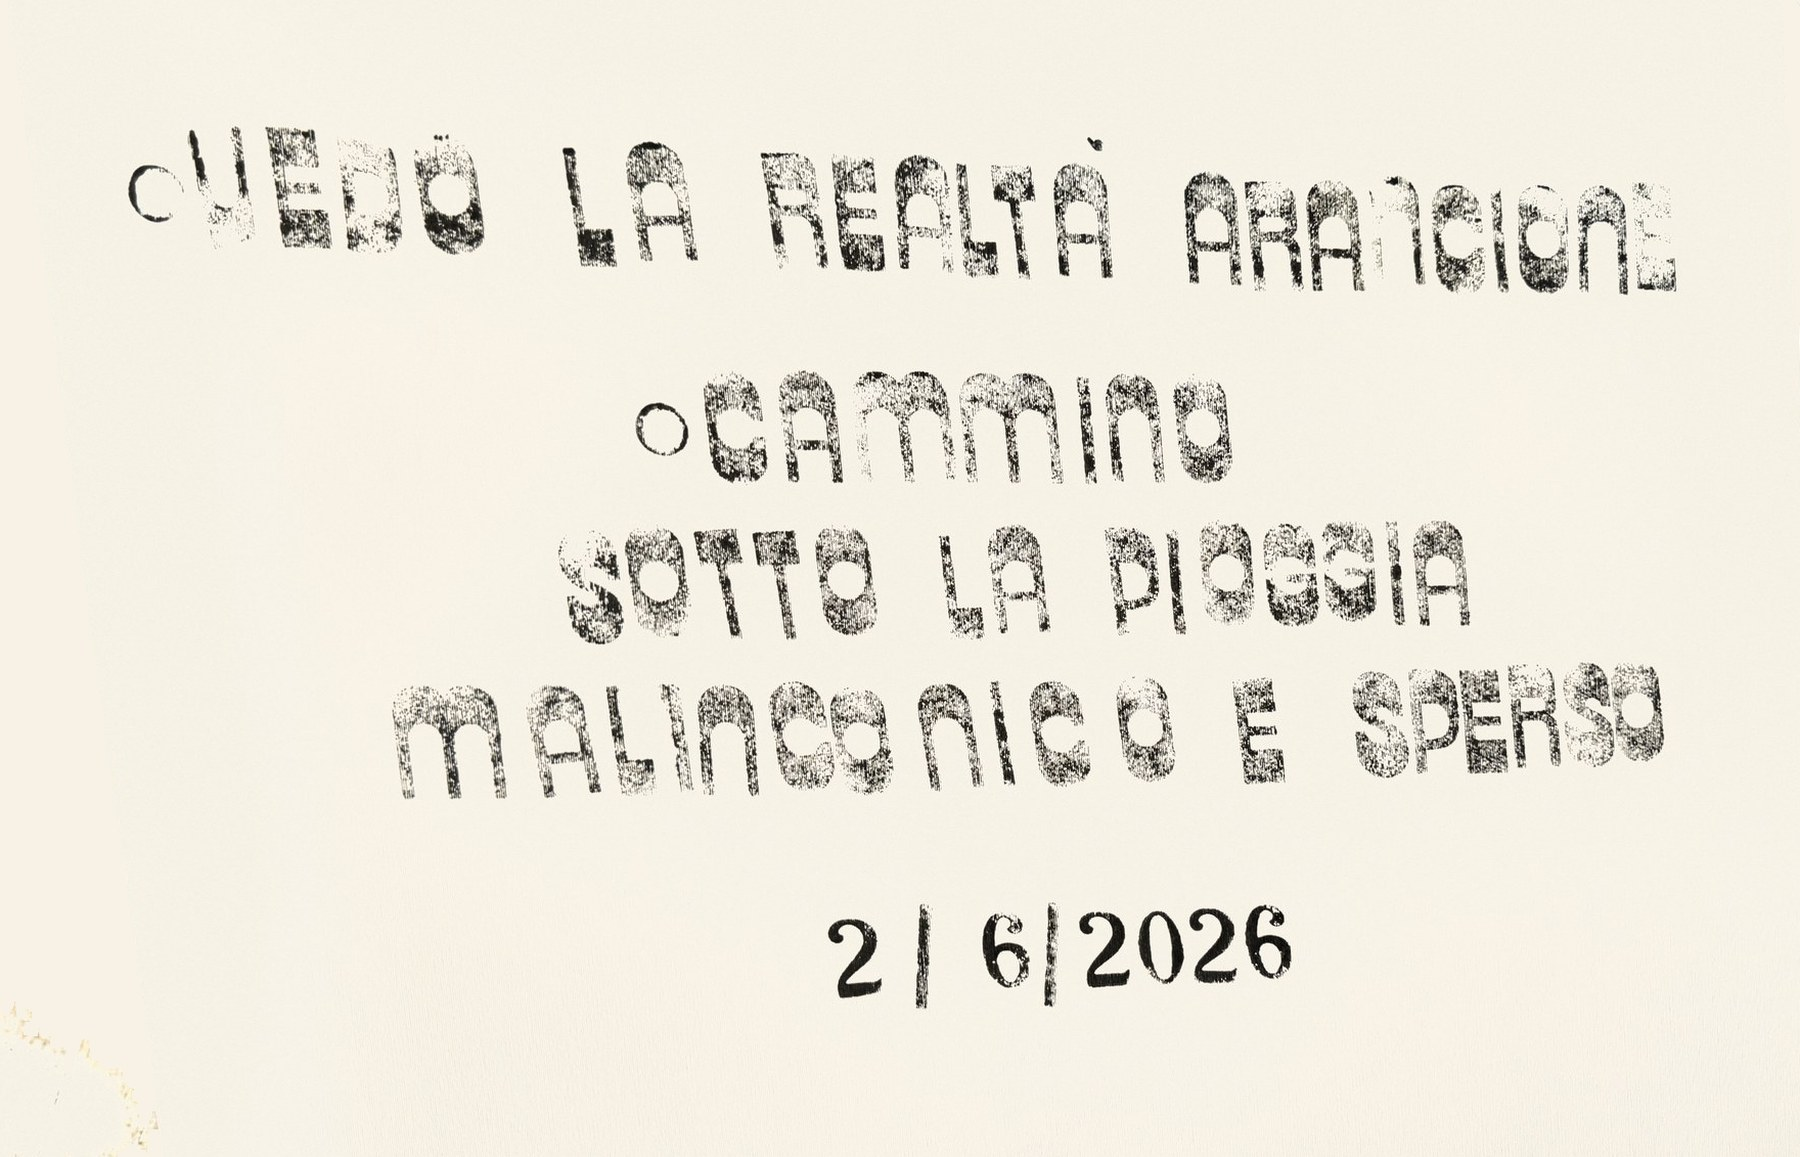
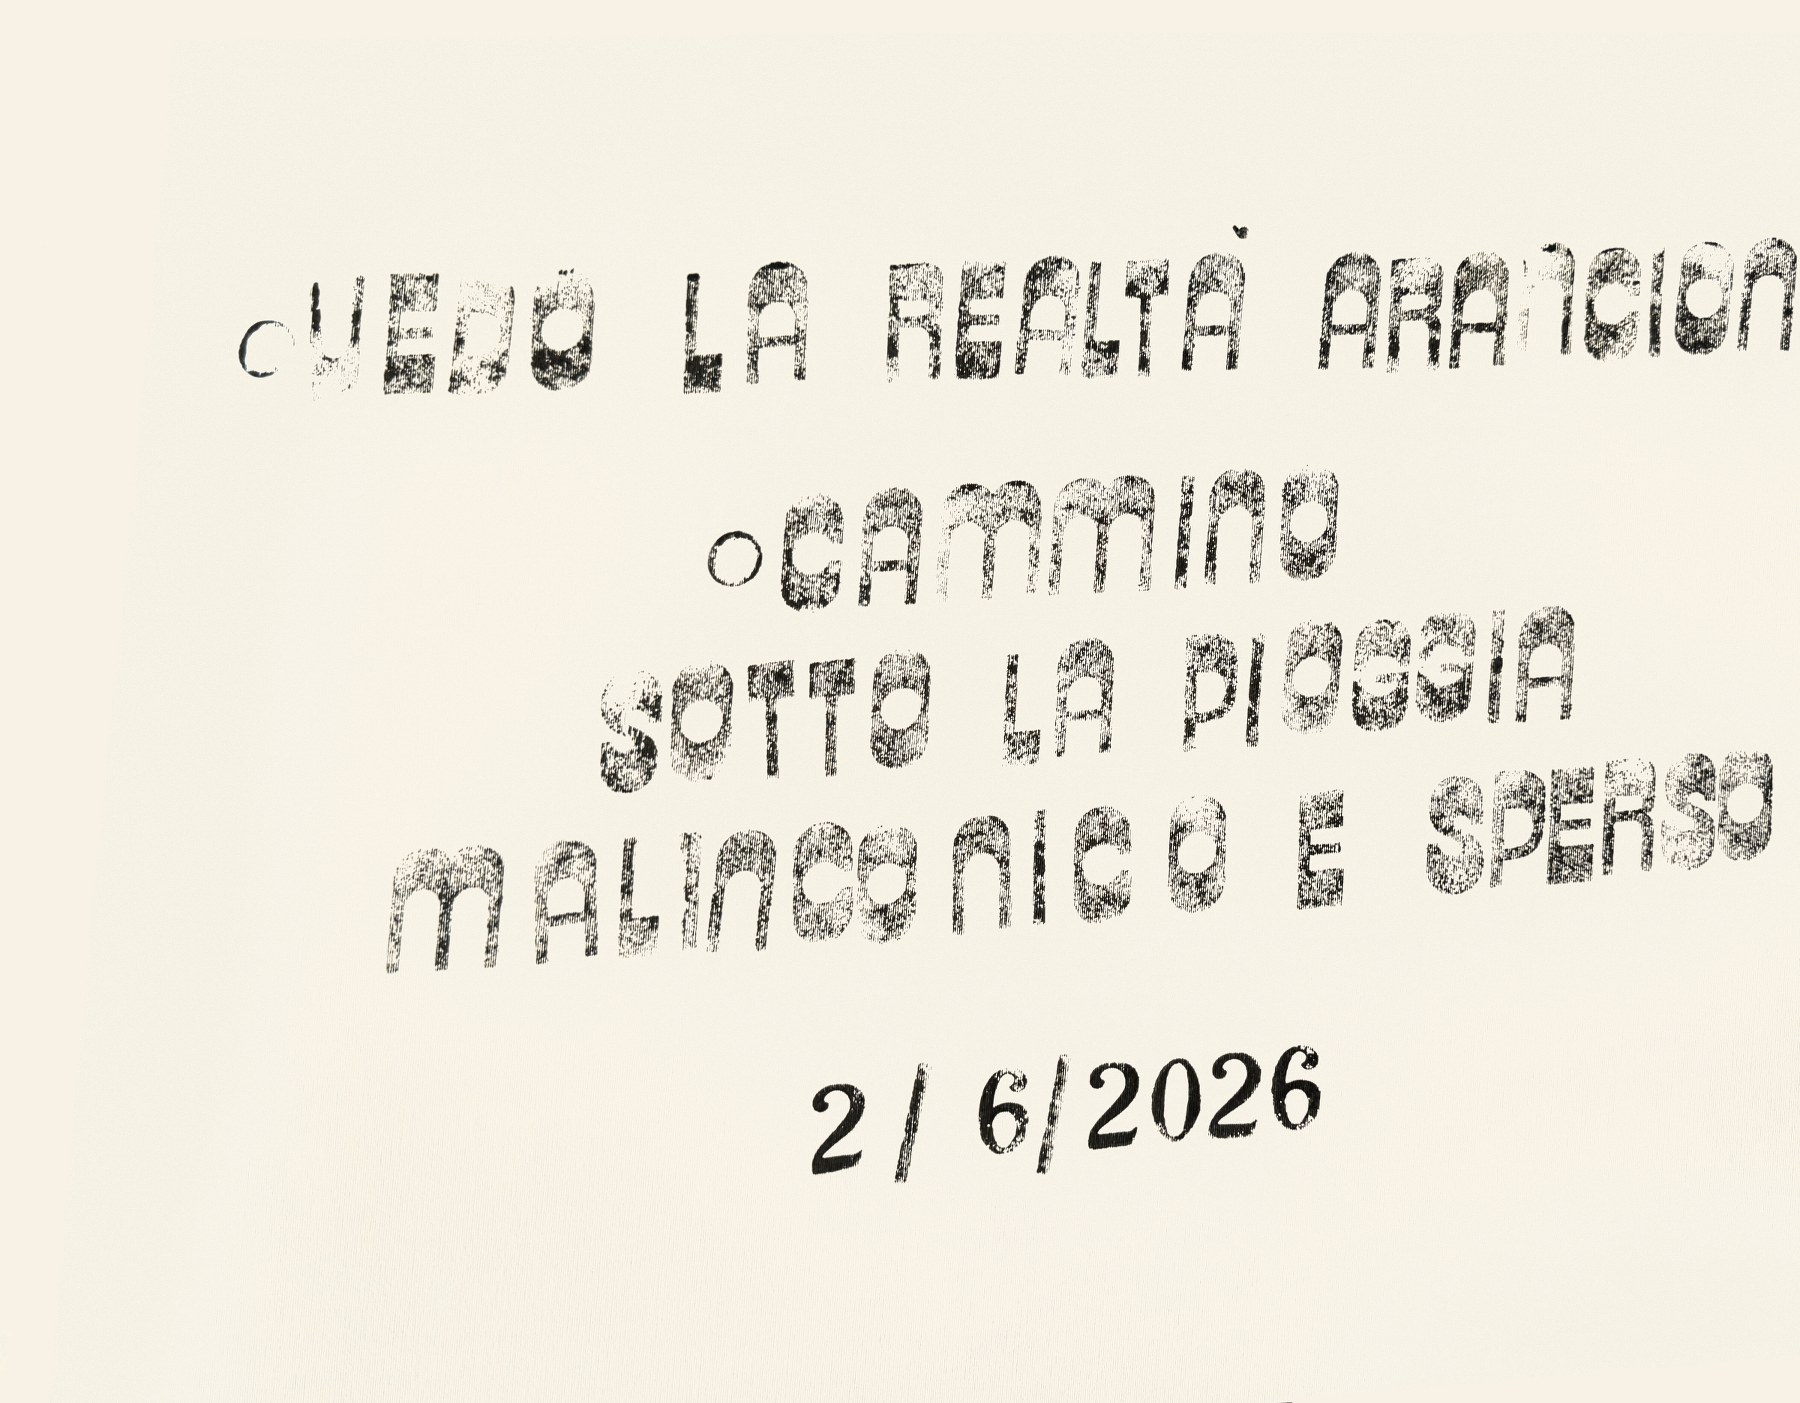
fix: 2/6 perspective deskew corretto (no più distorsione lettere)

Changed region(s): [[0.2178, 0.3111, 0.9956, 0.7156], [0.0622, 0.0933, 1.0, 0.28], [0.4356, 0.7468, 0.7467, 0.8712]]

diff --git a/index.html b/index.html
@@ -662,11 +662,11 @@ section#timbri{ padding-top: clamp(160px, 18vw, 240px); }
 <section class="page" id="timbri">
   <div class="gallery" id="gallery">
     <figure class="work">
-      <div class="work-frame" style="--ratio: 64.28%;">
+      <div class="work-frame" style="--ratio: 77.94%;">
         <img src="foto_definitive/Timbro_2026-06-02.jpg"
              srcset="foto_definitive/thumbs/Timbro_2026-06-02.jpg 800w, foto_definitive/Timbro_2026-06-02.jpg 1800w"
              sizes="(max-width: 720px) 92vw, 720px"
-             width="1800" height="1157"
+             width="1800" height="1403"
              alt="2/6/26" loading="lazy" decoding="async" />
       </div>
       <figcaption class="work-caption"><span class="work-date">2/6/26</span></figcaption>
